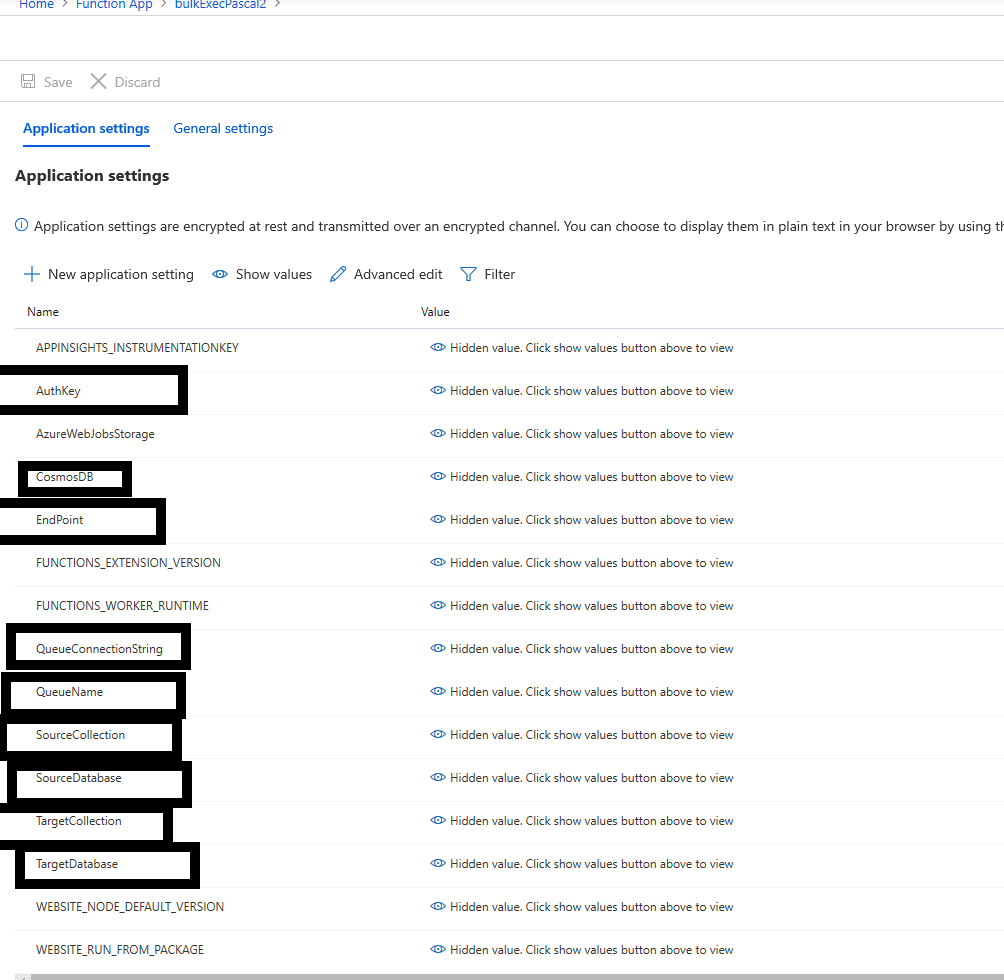
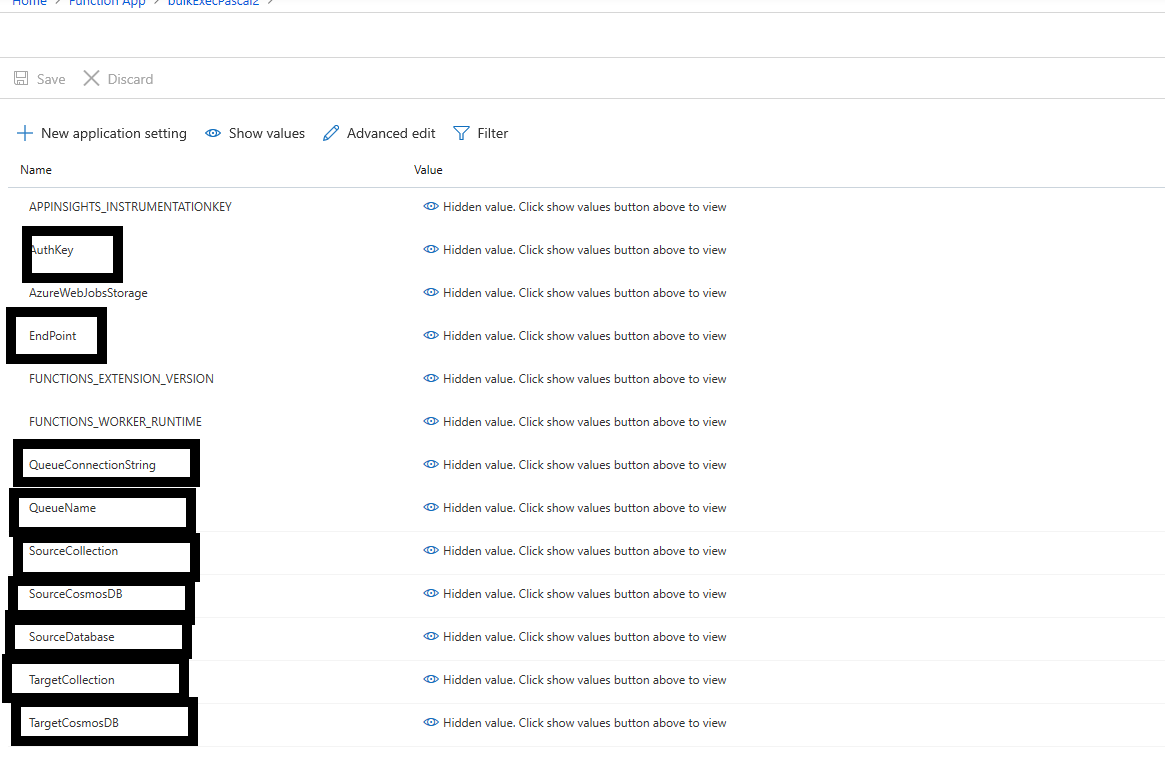
added more functionality to support two differnt database accounts:

Changed region(s): [[0.0, 0.0605, 1.0, 1.0], [0.3705, 0.4842, 0.741, 0.8474], [0.0, 0.0, 0.2779, 0.0303]]

diff --git a/MigrationProgressTrackingApp/MigrationProgressTrackingApp/Program.cs b/MigrationProgressTrackingApp/MigrationProgressTrackingApp/Program.cs
@@ -14,7 +14,7 @@ namespace MigrationProgressTrackingApp
 
     public class Program
     {
-        const int SleepTime = 13000;
+        const int SleepTime = 10000;
 
         private static DateTime start = DateTime.Now;
         private static IConfigurationRoot config = new ConfigurationBuilder()
@@ -50,7 +50,7 @@ namespace MigrationProgressTrackingApp
             while (true)
             {
                 await this.TrackMigrationProgressAsync(configInstance);
-                await Task.Delay(10000);
+                await Task.Delay(SleepTime);
             }
         }
 

diff --git a/README.md b/README.md
@@ -40,15 +40,22 @@ The migration settings are exposed as environment variables and accessed by the 
 
 ### Configurable settings
 
-* *CosmosDBConnectionString* : The connection string to your Cosmos DB Database account that contains your Monitored Container that you would like to migrate
+* *SourceCosmosDB* : The connection string to your Cosmos DB Database account that contains your Monitored Container that you would like to migrate
 * *SourceDatabase* : The name of the database that contains your Monitored Container.
 * *SourceCollection* : The name of your Monitored Container.
+* 
 * *EndPoint* : The endpoint to your Azure Cosmos DB Database account that contains your *Target Container*.
 * *AuthKey* : The key to your Azure Cosmos DB Database account that contains your *Target Container*
+* 
+* *TargetCosmosDB* : The connection string to your Cosmos DB Database account that contains your Target Container that you would like to migrate
 * *TargetDatabase* : The name of the database that contains your Target Container.
 * *TargetCollection* : The name of your Target Container.
+* 
 * *QueueName* : The name of the storage queue.
 * *QueueConnectionString* : The connection string to the storage queue.
+
+We have two variables for connection strings just in case a user has the Target Container in a different Cosmos DB account than the Monitored Container. If a user has
+both Containers under the same Cosmos DB account, then *SourceCosmosDB* and *TargetCosmosDB* are going to have the same value.
 
 After navigating to the Application Settings blade, click **New Application Settings** and add each of the above configurable settings with their appropriate values
 
